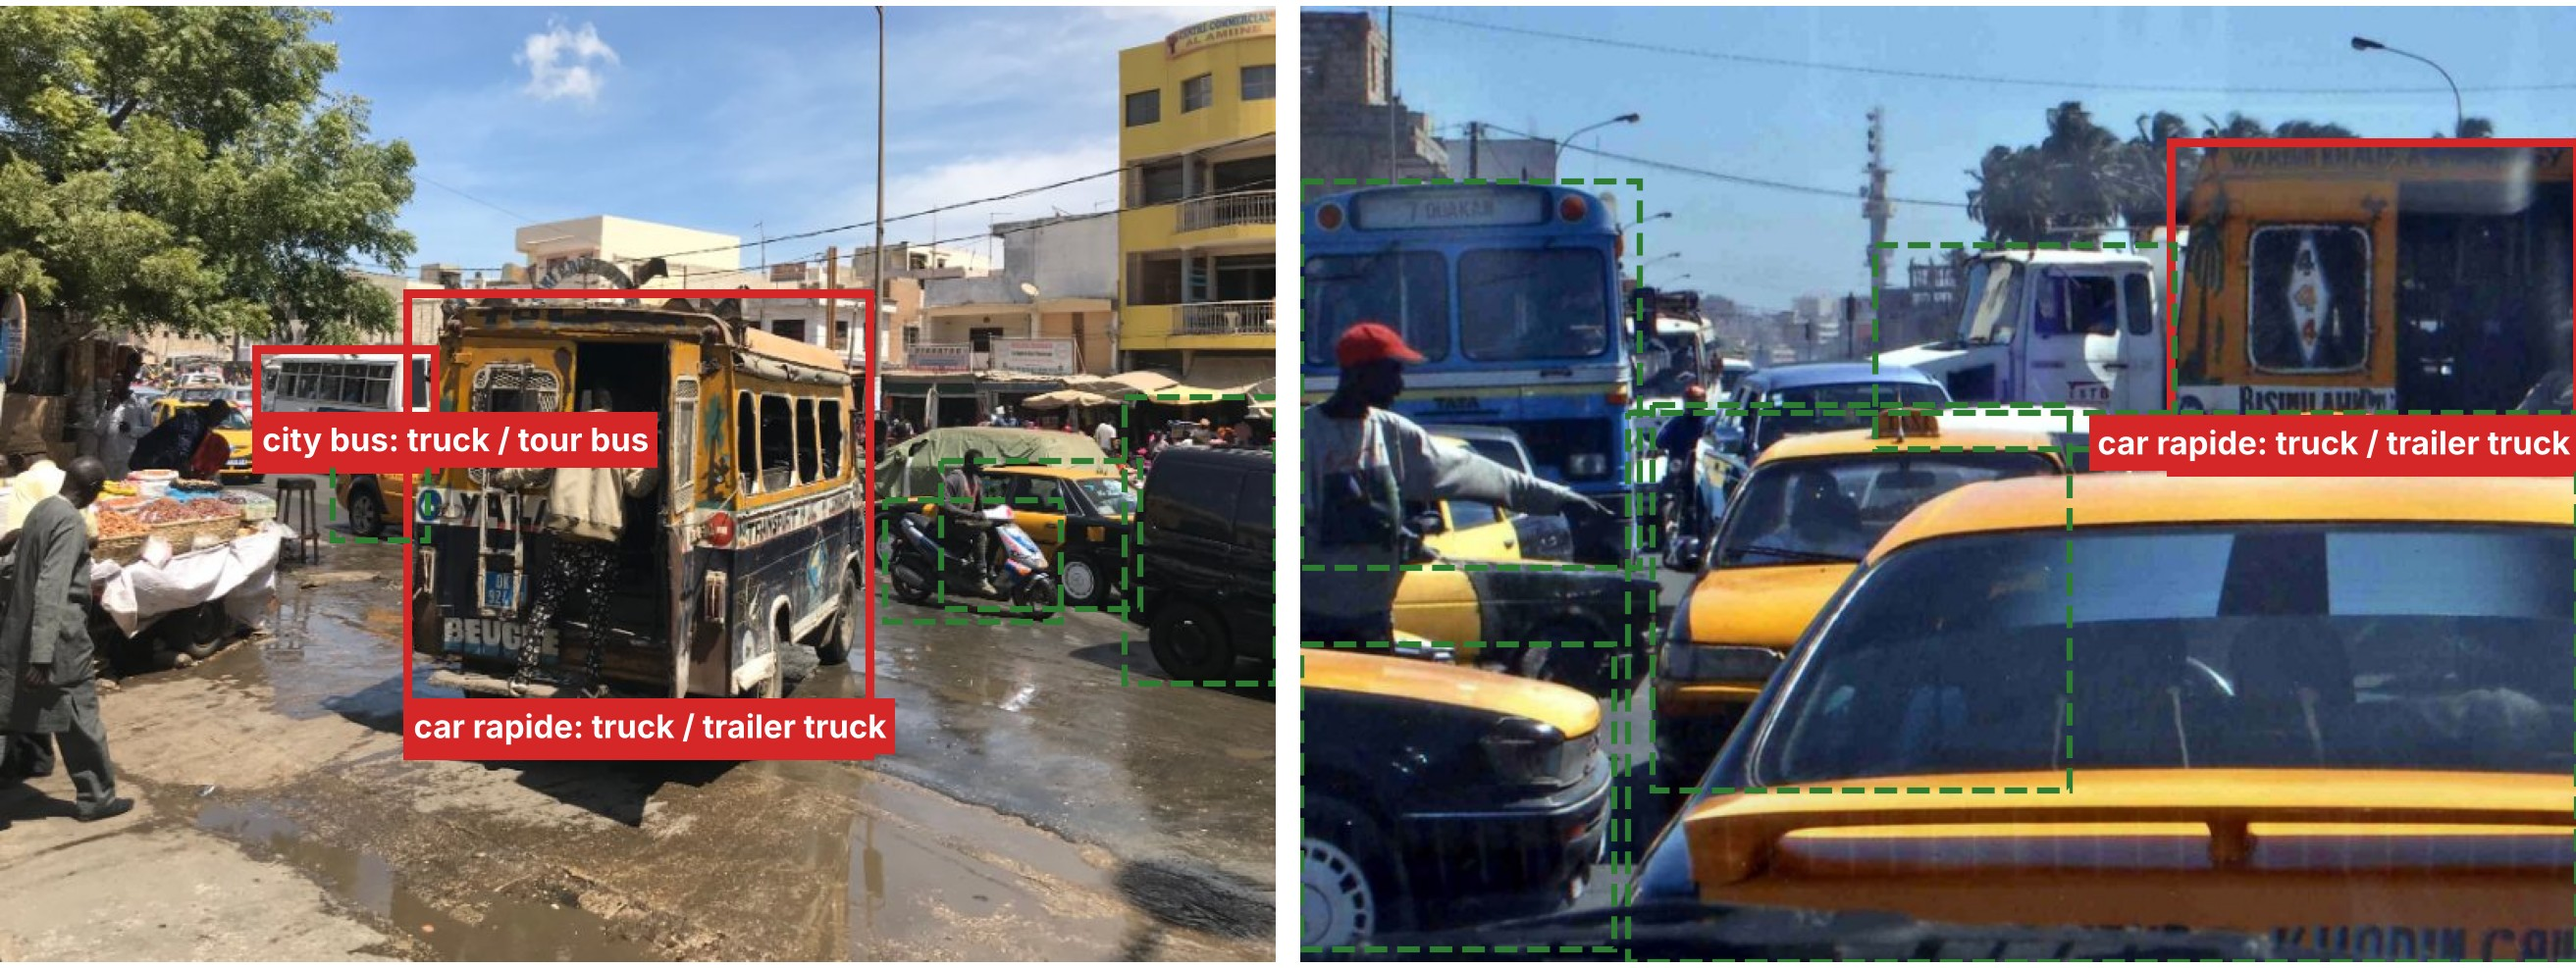
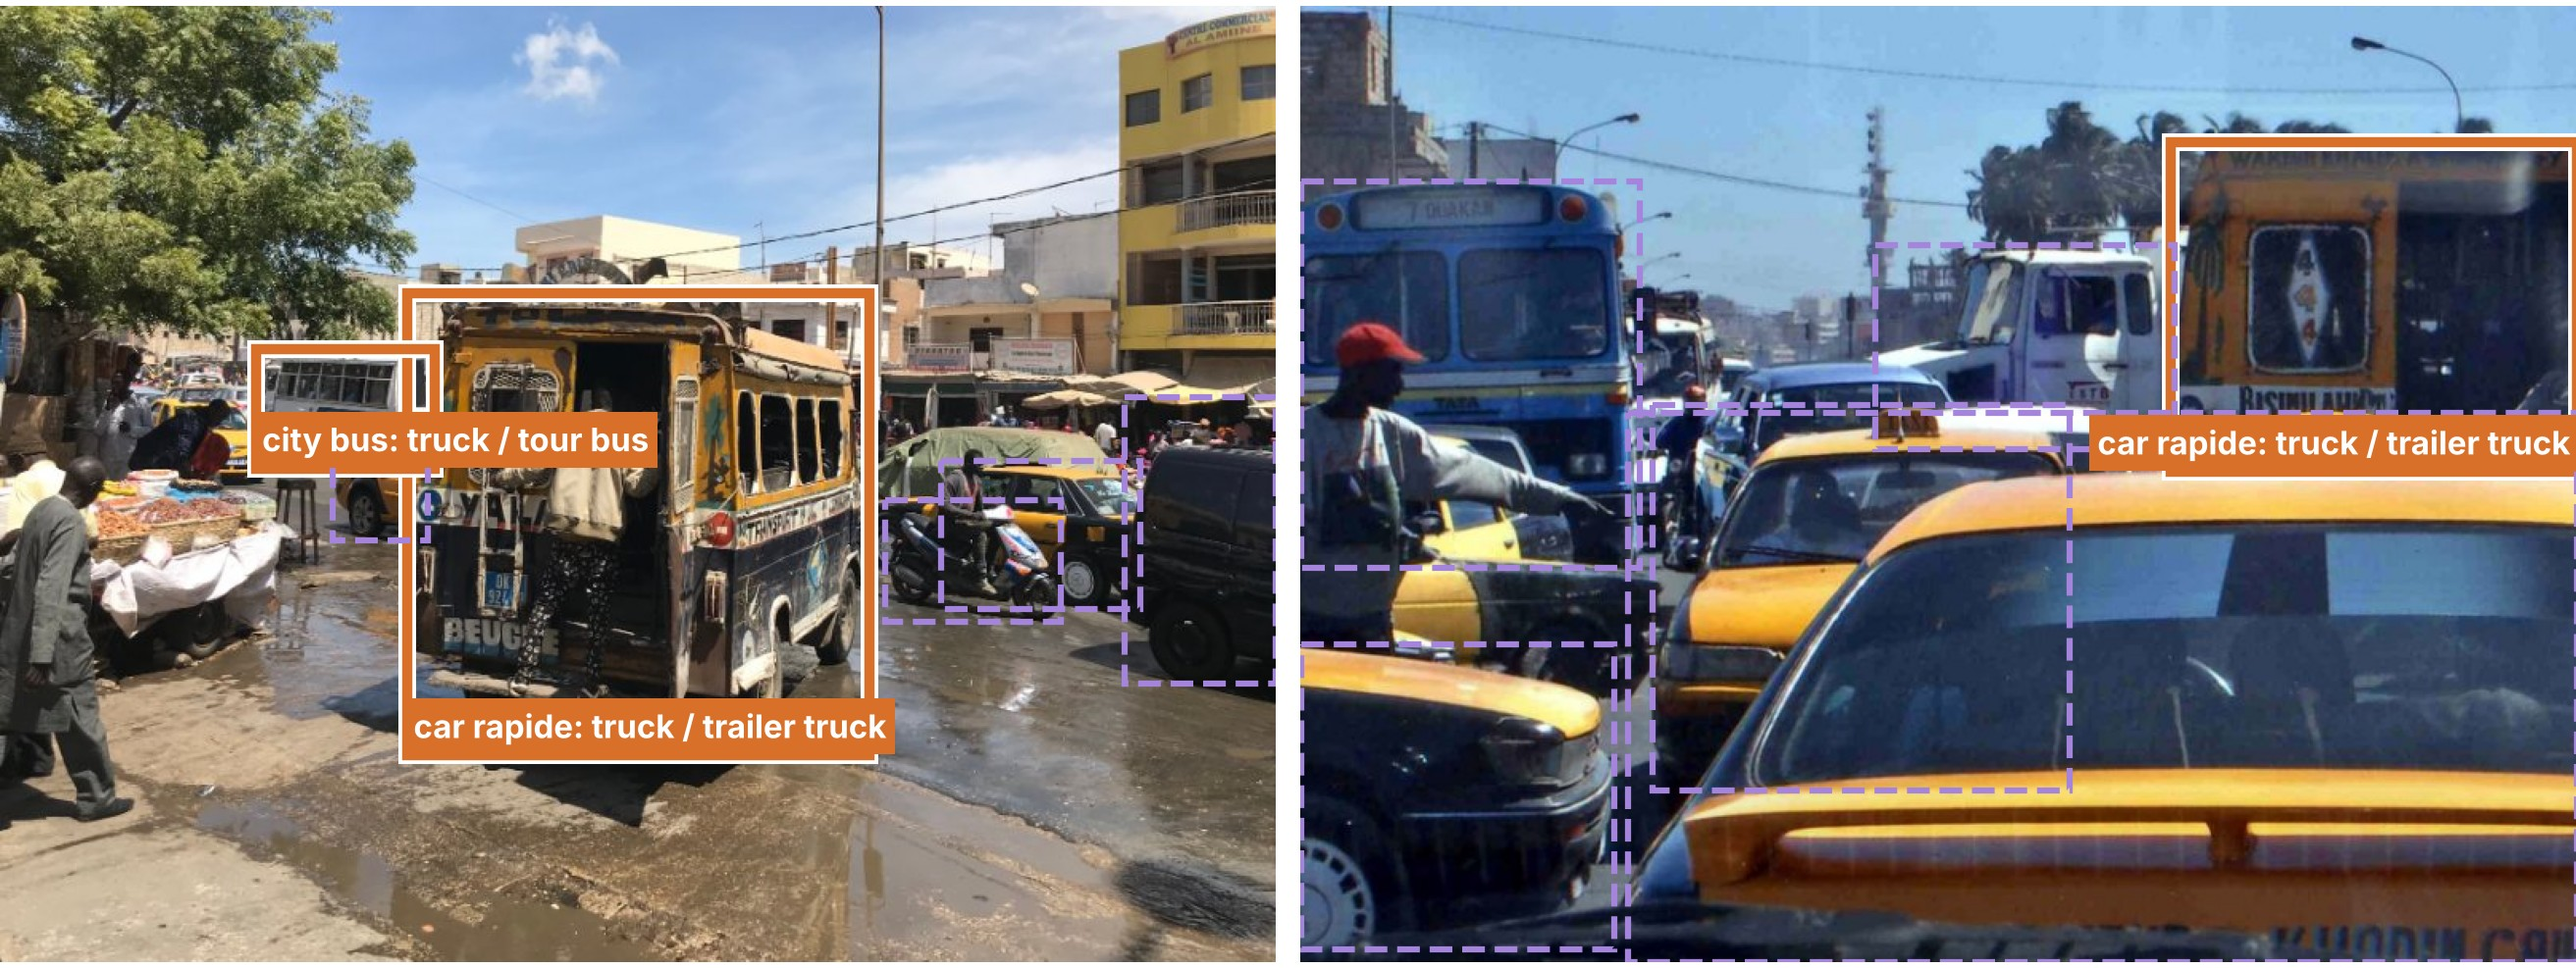
Use the poster colours in the curves and the probe figures

diff --git a/scripts/probe_confusion.py b/scripts/probe_confusion.py
@@ -25,7 +25,7 @@ COLS = ["bus", "car", "truck", "motorcycle", "missed"]
 RIGHT = {(0, 0), (1, 0), (2, 1), (3, 2), (4, 3)}
 MODELS = {"COCO (YOLO11n)": "COCO, closed vocabulary (YOLO11n)",
           "Open vocabulary, no prompt (YOLOE-11S-PF)": "Open vocabulary, no prompt (YOLOE)"}
-TEXT, MUTED, WRONG = "#191919", "#666666", "#d62728"
+TEXT, MUTED, WRONG, RIGHT_BOX = "#191919", "#666666", "#d9702a", "#a585dc"
 
 
 def matrices(md_path: Path) -> dict[str, np.ndarray]:
@@ -45,11 +45,12 @@ def matrices(md_path: Path) -> dict[str, np.ndarray]:
 
 
 def boxed_photos(md_path: Path, out: Path) -> None:
-    """The two street photos with each hand-drawn box: solid red when at least one
-    detector put the vehicle in the wrong class (or missed it), dashed green otherwise,
+    """The two street photos with each hand-drawn box: solid orange when at least one
+    detector put the vehicle in the wrong class (or missed it), dashed lilac otherwise,
     and the labels the two detectors gave to the wrong ones."""
     import matplotlib.pyplot as plt
     import yaml
+    import matplotlib.patheffects as pe
     from matplotlib.patches import Rectangle
     from PIL import Image
 
@@ -70,8 +71,11 @@ def boxed_photos(md_path: Path, out: Path) -> None:
             res = {m: per_model[m][k] for m in MODELS}
             wrong = any(r[6] != "right" for r in res.values())
             x1, y1, x2, y2 = v["box"]
-            ax.add_patch(Rectangle((x1, y1), x2 - x1, y2 - y1, fill=False, lw=2.6 if wrong else 1.8,
-                                   ls="-" if wrong else "--", ec=WRONG if wrong else "#2e7d32"))
+            box = ax.add_patch(Rectangle((x1, y1), x2 - x1, y2 - y1, fill=False,
+                                         lw=3.0 if wrong else 1.8, ls="-" if wrong else "--",
+                                         ec=WRONG if wrong else RIGHT_BOX))
+            if wrong:   # a white edge keeps the frame visible on yellow vehicles
+                box.set_path_effects([pe.Stroke(linewidth=5.2, foreground="white"), pe.Normal()])
             if wrong:
                 labels = " / ".join(dict.fromkeys(r[4].split(" (")[0] for r in res.values()))
                 right_edge = x2 > 700
@@ -119,7 +123,7 @@ def main() -> None:
         ax.grid(which="minor", color="#d9d9d9", lw=1)
         ax.tick_params(which="minor", length=0)
     fig.text(0.01, 0.955, "true vehicle  ↓      counted as →", fontsize=12, color=MUTED)
-    fig.text(0.99, 0.955, "red frame: wrong class or missed", fontsize=12, color=WRONG,
+    fig.text(0.99, 0.955, "orange frame: wrong class or missed", fontsize=12, color=WRONG,
              ha="right")
     fig.subplots_adjust(left=0.17, right=0.995, top=0.83, bottom=0.12)
     fig.savefig(RESULTS / "open_vocabulary_confusion.png", dpi=300, facecolor="white")

diff --git a/scripts/sensitivity_curves.py b/scripts/sensitivity_curves.py
@@ -33,8 +33,9 @@ from traffic_vision.simulate import (BanScenario, Scenario, ban_study, one_study
                                      power_table)
 
 TEXT, MUTED, GRID = "#191919", "#666666", "#e5e5e5"
-BLUE, AQUA, ORANGE = "#257de0", "#00b894", "#f47230"
-RAMP = ("#9dc8f7", "#338ced", "#0f4a96")  # 2, 4, 8 hours a day (light to dark)
+# Poster palette: orange for counts left as they are, purples for corrected counts.
+RAW, MID, OURS = "#d9702a", "#a585dc", "#7040b0"
+RAMP = ("#cdbdf0", "#9a74d6", "#5a2f99")  # 2, 4, 8 hours a day (light to dark)
 TRUTH = 12.0
 
 
@@ -122,8 +123,8 @@ def plot_detection(pts, path):
 
     x = [100 * p["recall_during"] for p in pts]
     fig, (a1, a2) = plt.subplots(1, 2, figsize=(10.5, 4.3), gridspec_kw={"wspace": 0.42})
-    series = (("did_raw", BLUE, "raw counts"), ("did_ratio_batch", AQUA, "corrected on one camera"),
-              ("did_ppi_ratio", ORANGE, "prediction-powered (6 hand counts per recording)"))
+    series = (("did_raw", RAW, "raw counts"), ("did_ratio_batch", MID, "corrected on one camera"),
+              ("did_ppi_ratio", OURS, "prediction-powered (6 hand counts per recording)"))
     handles = []
     for k, c, lab in series:
         a1.fill_between(x, [p[k]["q10"] for p in pts], [p[k]["q90"] for p in pts], color=c,
@@ -157,8 +158,8 @@ def plot_lookalike(pts, path):
 
     x = [100 * p["confusion"] for p in pts]
     fig, (a1, a2) = plt.subplots(1, 2, figsize=(10.5, 4.3), gridspec_kw={"wspace": 0.42})
-    series = (("network", BLUE, "network alone"),
-              ("ppi_ratio", ORANGE, "prediction-powered (6 hand counts)"))
+    series = (("network", RAW, "network alone"),
+              ("ppi_ratio", OURS, "prediction-powered (6 hand counts)"))
     handles = []
     for k, c, lab in series:
         a1.fill_between(x, [p[k]["q10"] for p in pts], [p[k]["q90"] for p in pts], color=c,
@@ -191,7 +192,7 @@ def plot_design(hand, power, path):
     fig, (a1, a2) = plt.subplots(1, 2, figsize=(10.5, 4.3), gridspec_kw={"wspace": 0.42})
     k = [p["hand_counts"] for p in hand]
     hw = [p["did_ppi_ratio"]["half_width"] for p in hand]
-    a1.plot(k, hw, color=ORANGE, lw=2.6, marker="o", ms=6, mec="white", mew=1.2)
+    a1.plot(k, hw, color=OURS, lw=2.6, marker="o", ms=6, mec="white", mew=1.2)
     cov = [100 * p["did_ppi_ratio"]["coverage"] for p in hand]
     a1.text(25, 2.0, f"coverage {min(cov):.0f} to {max(cov):.0f}% at every point", ha="right",
             fontsize=FS - 1, color=MUTED)
